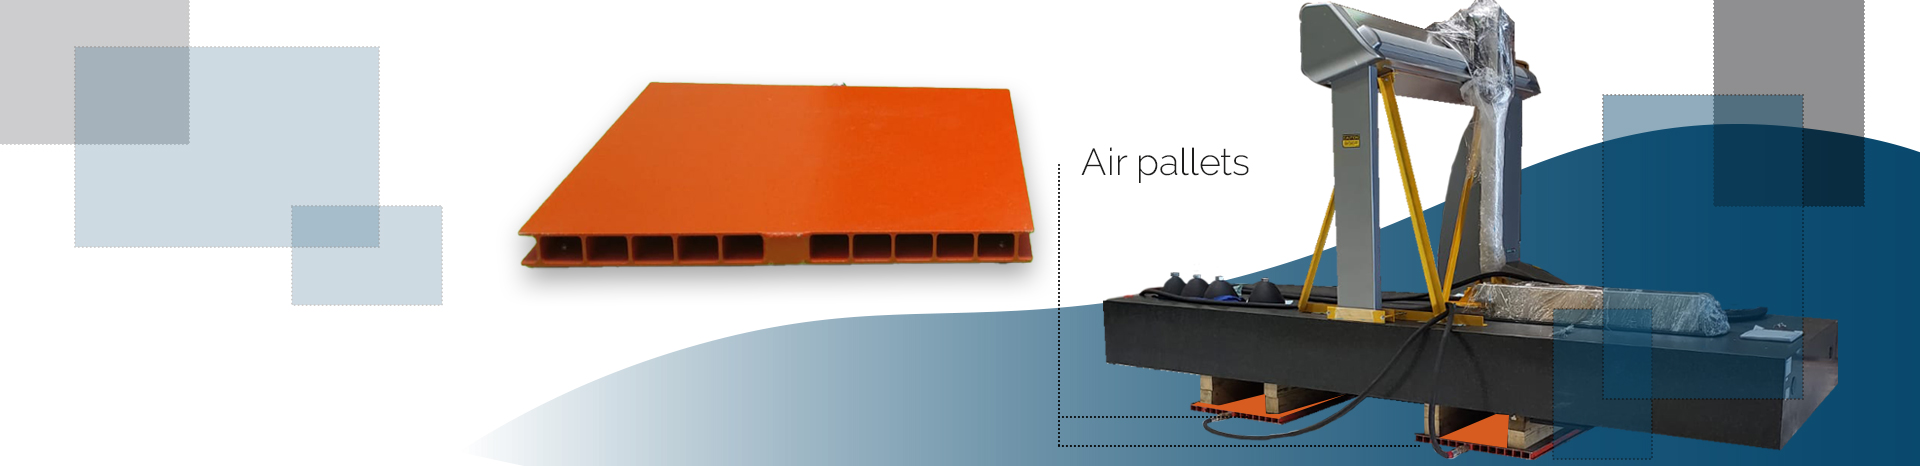
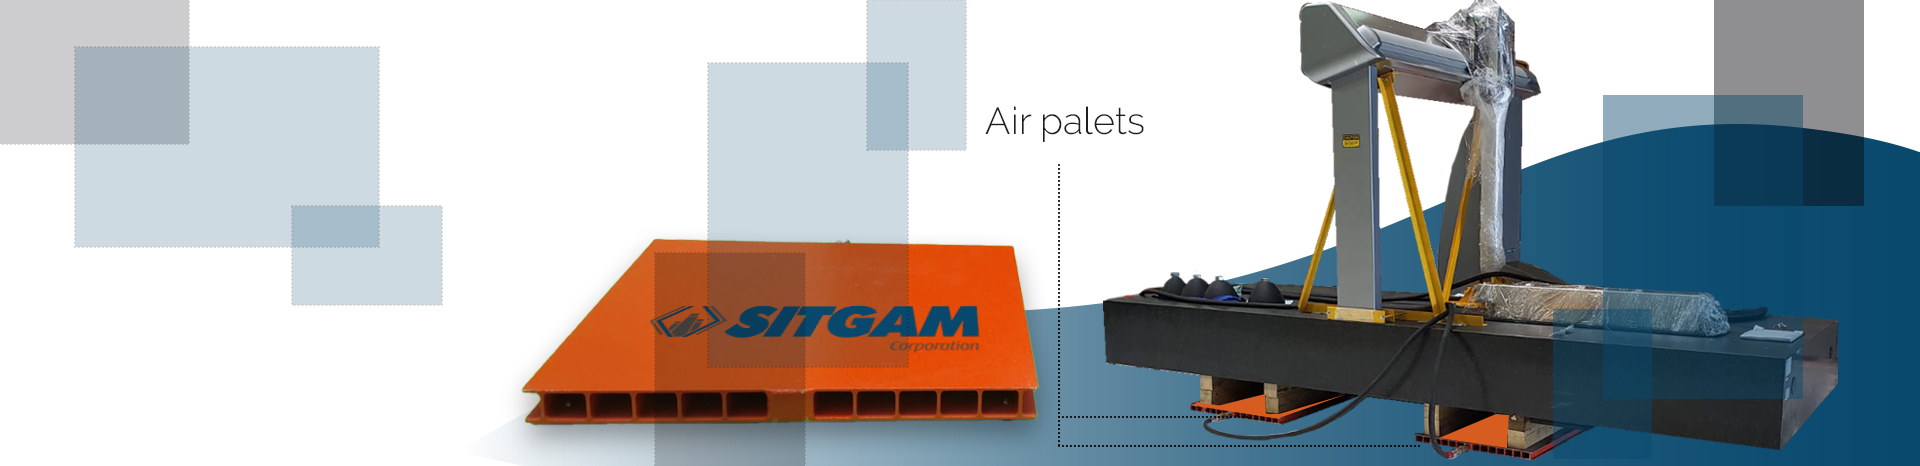
Se agregan los slides de los palets

Changed region(s): [[0.25, 0.0, 0.6562, 1.0]]

diff --git a/index.html b/index.html
@@ -24,7 +24,7 @@
       <nav class="menu"> 
         <section class="menu__container"> <img class="menu__logo" src="images/logoAzul.svg"/>
           <ul class="menu__links"> 
-            <li class="menu__item"> <a class="menu__link" href="/">Inicio</a></li>
+            <li class="menu__item"> <a class="menu__link" href="index.html">Inicio</a></li>
             <li class="menu__item"> <a class="menu__link" href="empresa.html">Empresa</a></li>
             <li class="menu__item menu__item-show"><a class="menu__link" href="#">Servicios<img class="menu__arrow" src="images/Iconos/chevron-down.svg"/></a>
               <ul class="menu__nesting">
@@ -45,6 +45,17 @@
       <section class="content__slides carousel slide carousel-fade" data-bs-ride="carousel" id="carouselExampleFade">
         <div class="carousel-inner">
           <div class="carousel-item active">
+            <picture class="carousel-item__img">
+              <source media="(min-width:1110px)" srcset="/images/slidePallets-1920x466.jpg"/>
+              <source media="(min-width:768px)" srcset="/images/slidePallets-1028x466.jpg"/><img class="d-block w-100" src="/images/slidePallets-528x593.jpg" alt="Imgagen de pallets"/>
+            </picture>
+            <div class="slideContent">
+              <div class="slideContent__box" id="slide1Content">
+                <p>MANIOBRAMOS  CON <br/> <strong>PRECISIÓN</strong>  <br/> Air palets <br/></p>
+              </div>
+            </div>
+          </div>
+          <div class="carousel-item">
             <picture class="carousel-item__img">
               <source media="(min-width:1110px)" srcset="images/shead1.jpg"/>
               <source media="(min-width:768px)" srcset="images/ti-1.jpg"/><img class="d-block w-100" src="images/mi-1.jpg" alt="Imgagen de un montacargas"/>
@@ -122,8 +133,8 @@
             </div>
           </div>
         </div>
-        <button class="carousel-control-prev hidden" type="button" data-bs-target="#carouselExampleFade" data-bs-slide="prev"></button><span class="carousel-control-prev-icon hidden" aria-hidden="true"></span><span class="visually-hidden hidden">Previous</span>
-        <button class="carousel-control-prev hidden" type="button" data-bs-target="#carouselExampleFade" data-bs-slide="next"></button><span class="carousel-control-next-icon hidden" aria-hidden="true"></span><span class="visually-hidden hidden">Next</span>
+        <button class="carousel-control-prev hidden" type="button" data-bs-target="#carouselExampleFade" data-bs-slide="prev"><span class="carousel-control-prev-icon hidden" aria-hidden="true"></span><span class="visually-hidden hidden">Previous</span></button>
+        <button class="carousel-control-next hidden" type="button" data-bs-target="#carouselExampleFade" data-bs-slide="next"><span class="carousel-control-next-icon hidden" aria-hidden="true"></span><span class="visually-hidden hidden">Next</span></button>
       </section>
       <section class="contentSection">
         <div class="contentSection__triangle-left top__triangle1">

diff --git a/components/template.html b/components/template.html
@@ -24,7 +24,7 @@
       <nav class="menu"> 
         <section class="menu__container"> <img class="menu__logo" src="images/logoAzul.svg"/>
           <ul class="menu__links"> 
-            <li class="menu__item"> <a class="menu__link" href="/">Inicio</a></li>
+            <li class="menu__item"> <a class="menu__link" href="index.html">Inicio</a></li>
             <li class="menu__item"> <a class="menu__link" href="empresa.html">Empresa</a></li>
             <li class="menu__item menu__item-show"><a class="menu__link" href="#">Servicios<img class="menu__arrow" src="images/Iconos/chevron-down.svg"/></a>
               <ul class="menu__nesting">

diff --git a/components/header.html b/components/header.html
@@ -6,7 +6,7 @@
   <nav class="menu"> 
     <section class="menu__container"> <img class="menu__logo" src="images/logoAzul.svg"/>
       <ul class="menu__links"> 
-        <li class="menu__item"> <a class="menu__link" href="/">Inicio</a></li>
+        <li class="menu__item"> <a class="menu__link" href="index.html">Inicio</a></li>
         <li class="menu__item"> <a class="menu__link" href="empresa.html">Empresa</a></li>
         <li class="menu__item menu__item-show"><a class="menu__link" href="#">Servicios<img class="menu__arrow" src="images/Iconos/chevron-down.svg"/></a>
           <ul class="menu__nesting">
